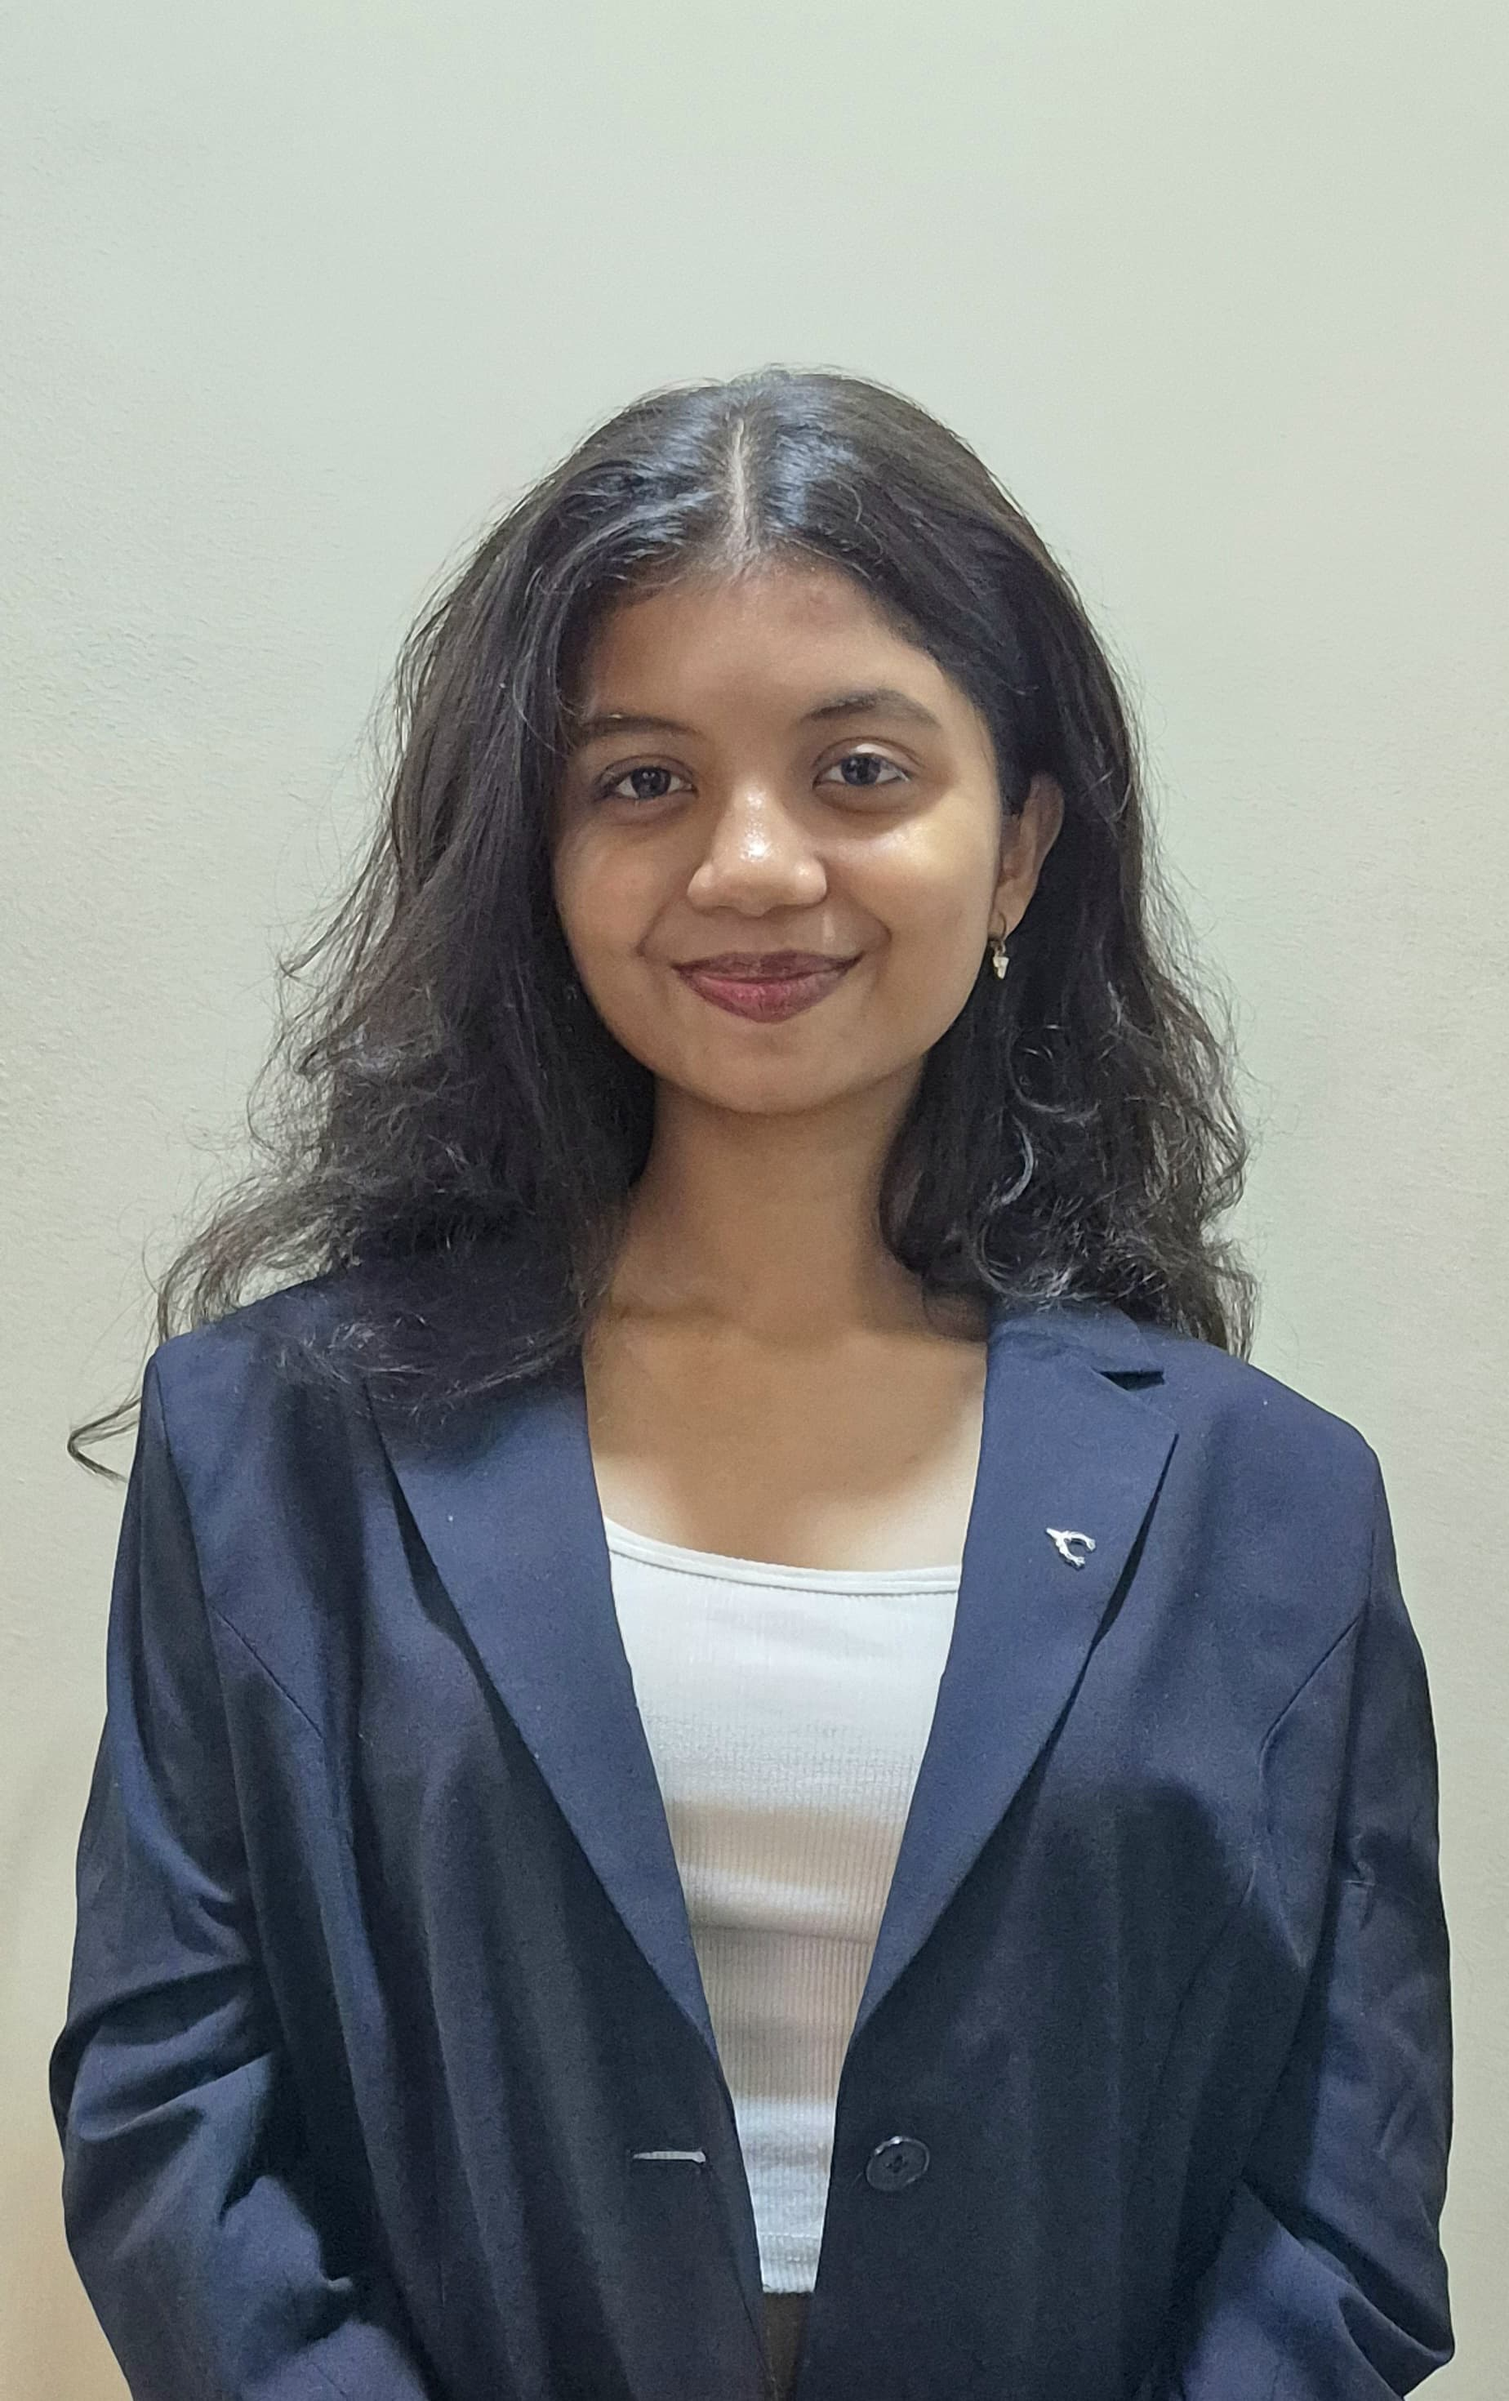
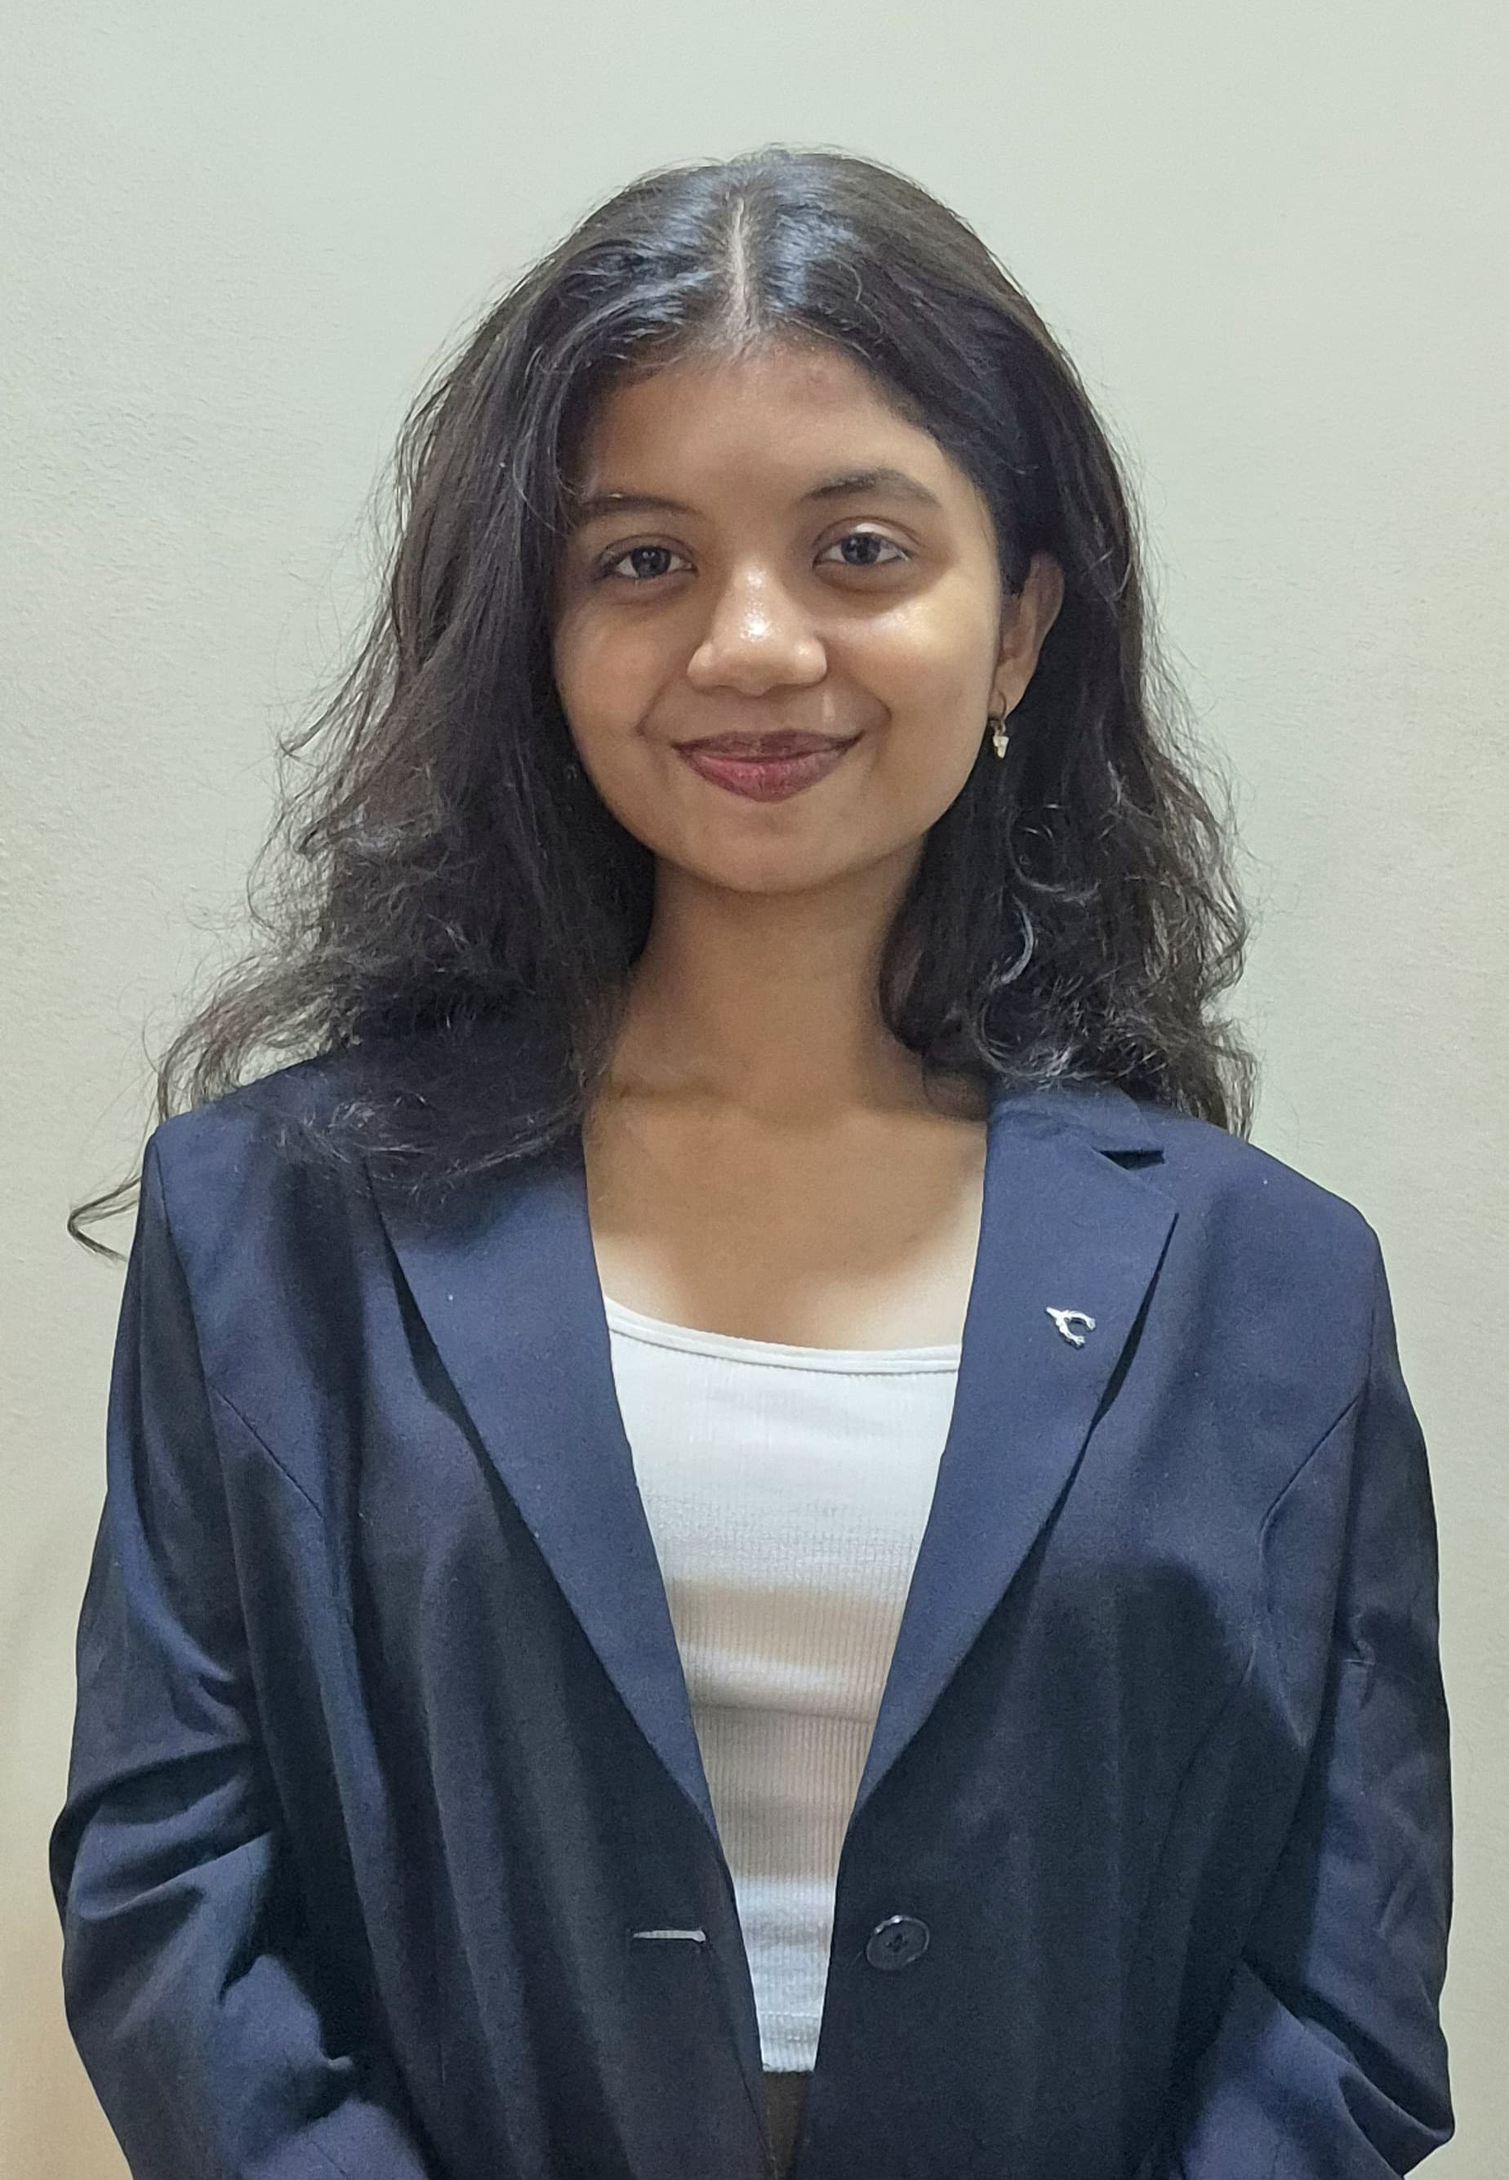
Made the photos uniform

diff --git a/src/components/Team/team.jsx b/src/components/Team/team.jsx
@@ -42,7 +42,7 @@ const Team = () => {
     {
       name: "Dr.Vaishali Kulloli",
       position: "Faculty Advisor",
-      image: "/E-CELL-WEBSITE/images/team/kulloli.jpeg",
+      image: "/E-CELL-WEBSITE/images/team/vaishali.png",
       linkedin: "https://www.linkedin.com/in/vaishali-kulloli-3b4685326/",
     },
     {
